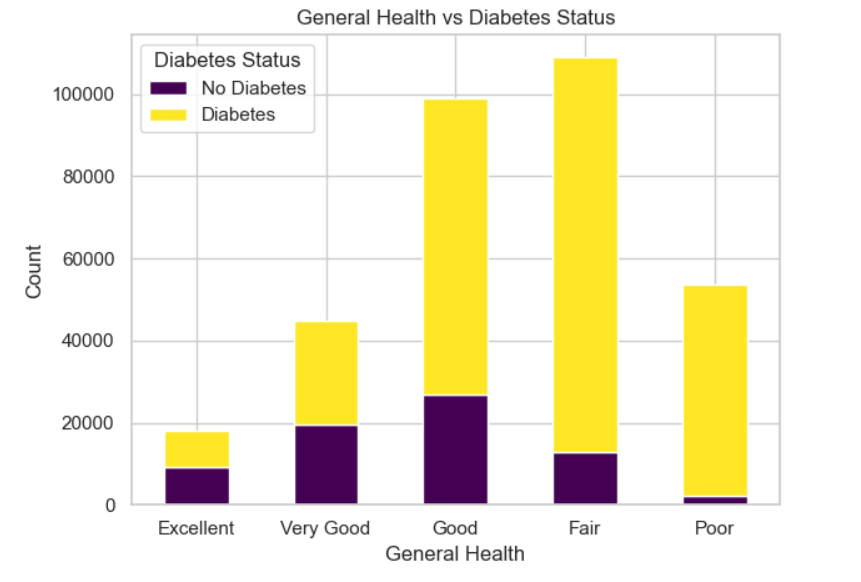
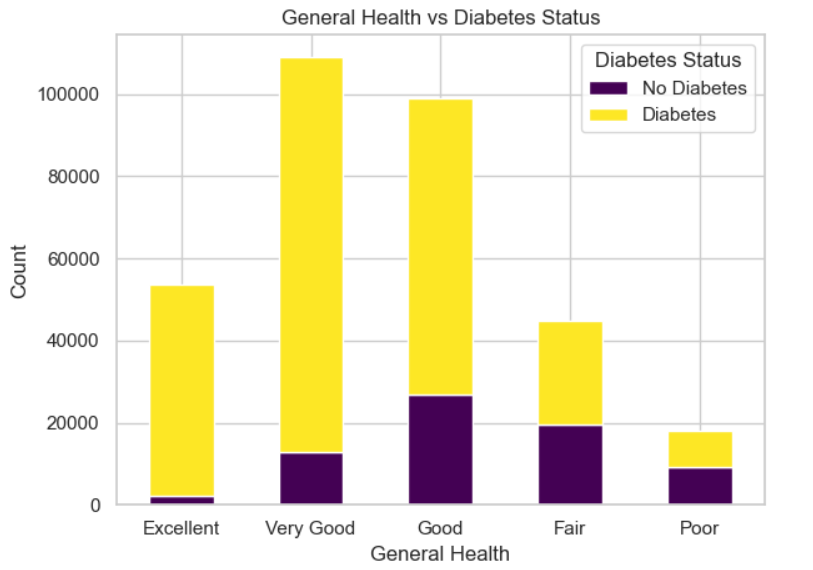
Add files via upload

Changed region(s): [[0.0, 0.0, 0.9533, 0.9842]]

diff --git a/Visualizations/diabetes_visualization.py b/Visualizations/diabetes_visualization.py
@@ -3,7 +3,7 @@
 
 # # Diabetes Visualization
 
-# In[51]:
+# In[57]:
 
 
 #Dependencies
@@ -16,7 +16,7 @@ import numpy as np
 sns.set(style="whitegrid")
 
 
-# In[3]:
+# In[59]:
 
 
 # Load dataset
@@ -24,14 +24,14 @@ df = pd.read_csv("Resources/full_cleaned_merged.csv")
 df.head()
 
 
-# In[5]:
+# In[61]:
 
 
 # Diabetes class balance
 df['Diabetes_binary'].value_counts(normalize=True)
 
 
-# In[9]:
+# In[63]:
 
 
 # Create Copy of dataframe and change values to categories
@@ -75,8 +75,8 @@ df2['CholCheck'] = df2['CholCheck'].replace({
 
 # General Health
 genhlth_map = {
-    5: 'Excellent', 4: 'Very Good', 3: 'Good', 2: 'Fair', 1: 'Poor'
-}
+    5: 'Poor', 4: 'Fair', 3: 'Good', 2: 'Very Good', 1: 'Excellent'
+} 
 df2['GenHlth'] = df2['GenHlth'].replace(genhlth_map)
 
 # Education
@@ -88,9 +88,9 @@ df2['Education'] = df2['Education'].replace(education_map)
 
 # Income
 income_map = {
-    1: 'Less Than $10,000', 2: 'Less Than $10,000', 3: 'Less Than $10,000',
-    4: 'Less Than $10,000', 5: 'Less Than $35,000', 6: 'Less Than $35,000',
-    7: 'Less Than $35,000', 8: '$75,000 or More'
+    1: 'Less Than $10,000', 2: 'Less Than $15,000', 3: 'Less Than $20,000',
+    4: 'Less Than $25,000', 5: 'Less Than $35,000', 6: 'Less Than $50,000',
+    7: 'Less Than $75,000', 8: '$75,000 or More'
 }
 df2['Income'] = df2['Income'].replace(income_map)
 
@@ -175,7 +175,7 @@ plt.tight_layout()
 plt.show()
 
 
-# In[29]:
+# In[65]:
 
 
 #General healh vs Diabetes
@@ -302,7 +302,7 @@ fig.update_layout(
 fig.show()
 
 
-# In[47]:
+# In[67]:
 
 
 # Income vs Diabetes
